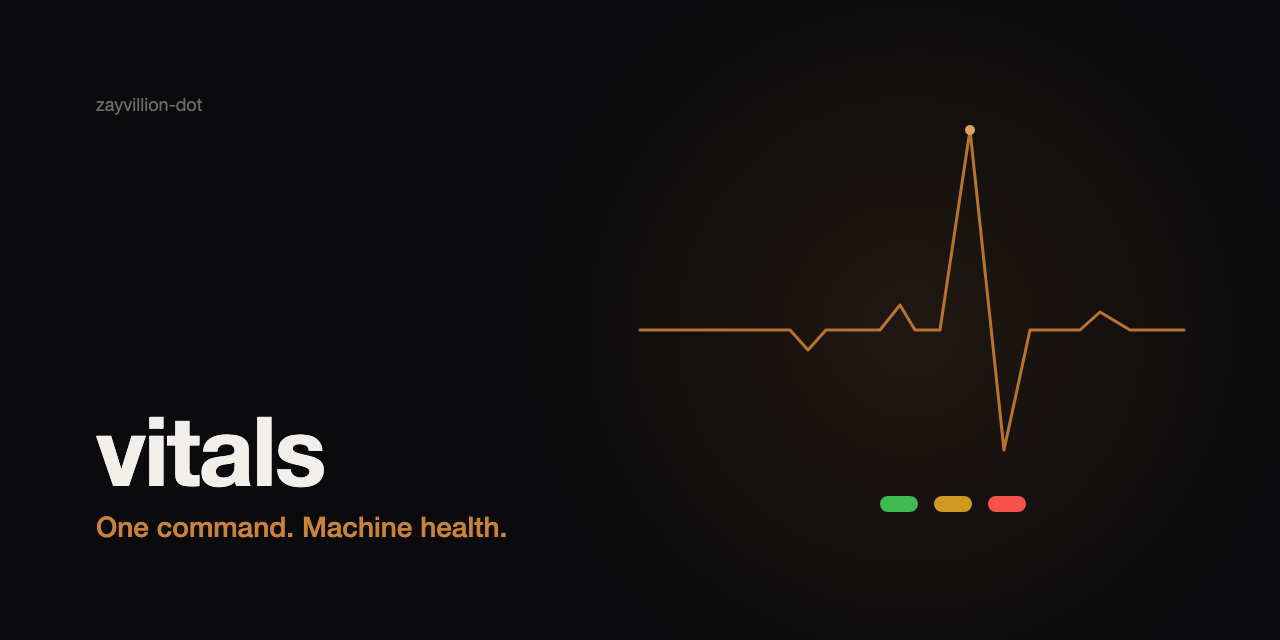
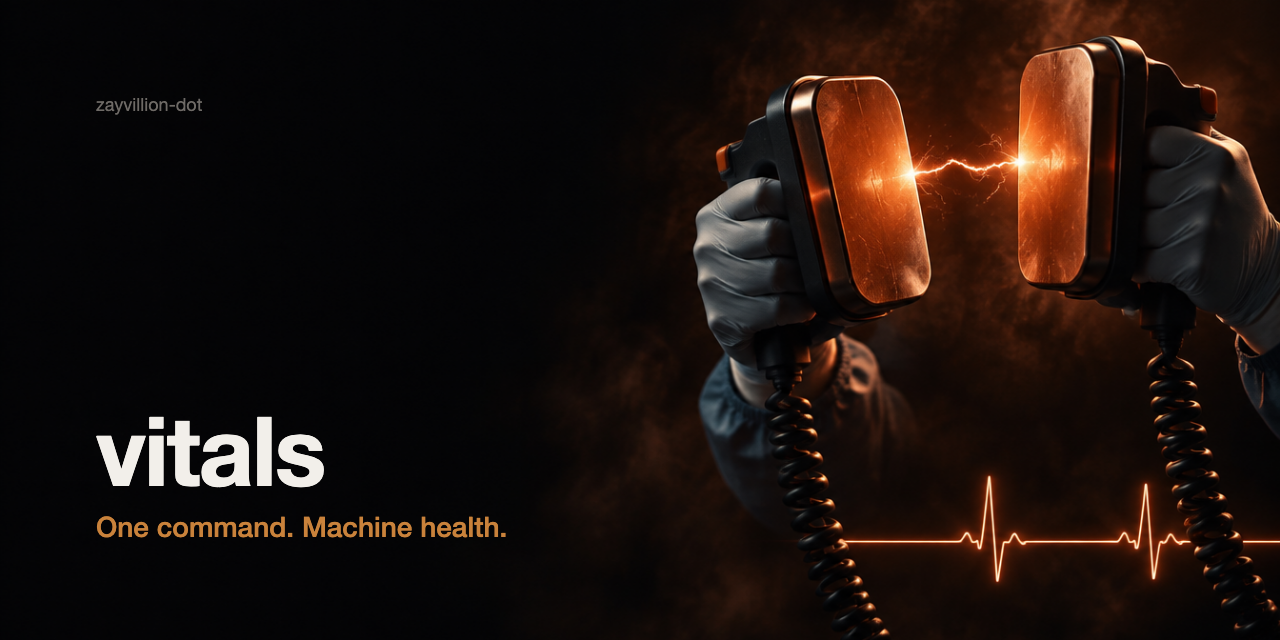
assets: photoreal social preview (sage tribunal / strongman / defibrillator)

diff --git a/assets/social-preview.html b/assets/social-preview.html
@@ -1,15 +1,11 @@
 <!DOCTYPE html><html><head><meta charset="utf-8"><style>
 html,body{margin:0;padding:0;background:#0B0B0D}
 body{position:relative;font-family:-apple-system,"SF Pro Display","Helvetica Neue",Helvetica,sans-serif}
-.glow{position:absolute;left:490px;top:-90px;width:840px;height:840px;background:radial-gradient(circle,rgba(184,115,51,0.12) 0%,rgba(184,115,51,0) 65%)}
 .org{position:absolute;left:96px;top:96px;font-size:18px;line-height:18px;color:#6E6A66}
 .blk{position:absolute;left:96px;bottom:96px}
 .w{font-size:96px;line-height:100px;font-weight:700;letter-spacing:-0.02em;color:#F2EFEA}
 .t{font-size:28px;line-height:34px;font-weight:500;color:#C9823B;margin-top:10px}
-svg{position:absolute;left:0;top:0}
-</style></head><body style="margin:0;width:1280px;height:640px;overflow:hidden;background:#0B0B0D">
-<div class="glow"></div>
-<svg width="1280" height="640" viewBox="0 0 1280 640" fill="none"><path d="M640 330 L760 330 L790 330 L808 350 L826 330 L880 330 L900 305 L915 330 L940 330 L970 130 L1004 450 L1030 330 L1080 330 L1100 312 L1130 330 L1184 330" stroke="#B87333" stroke-width="3" stroke-linejoin="round" stroke-linecap="round"/><circle cx="970" cy="130" r="5" fill="#E0A060"/><rect x="880" y="496" width="38" height="16" rx="8" fill="#3FB950"/><rect x="934" y="496" width="38" height="16" rx="8" fill="#D29922"/><rect x="988" y="496" width="38" height="16" rx="8" fill="#F85149"/></svg>
+</style></head><body style="margin:0;width:1280px;height:640px;overflow:hidden;background:#0B0B0D url('social-preview-bg.png') center/cover no-repeat">
 <div class="org">zayvillion-dot</div>
 <div class="blk"><div class="w">vitals</div><div class="t">One command. Machine health.</div></div>
 </body></html>

diff --git a/assets/social-preview-typographic.html b/assets/social-preview-typographic.html
@@ -1,0 +1,15 @@
+<!DOCTYPE html><html><head><meta charset="utf-8"><style>
+html,body{margin:0;padding:0;background:#0B0B0D}
+body{position:relative;font-family:-apple-system,"SF Pro Display","Helvetica Neue",Helvetica,sans-serif}
+.glow{position:absolute;left:490px;top:-90px;width:840px;height:840px;background:radial-gradient(circle,rgba(184,115,51,0.12) 0%,rgba(184,115,51,0) 65%)}
+.org{position:absolute;left:96px;top:96px;font-size:18px;line-height:18px;color:#6E6A66}
+.blk{position:absolute;left:96px;bottom:96px}
+.w{font-size:96px;line-height:100px;font-weight:700;letter-spacing:-0.02em;color:#F2EFEA}
+.t{font-size:28px;line-height:34px;font-weight:500;color:#C9823B;margin-top:10px}
+svg{position:absolute;left:0;top:0}
+</style></head><body style="margin:0;width:1280px;height:640px;overflow:hidden;background:#0B0B0D">
+<div class="glow"></div>
+<svg width="1280" height="640" viewBox="0 0 1280 640" fill="none"><path d="M640 330 L760 330 L790 330 L808 350 L826 330 L880 330 L900 305 L915 330 L940 330 L970 130 L1004 450 L1030 330 L1080 330 L1100 312 L1130 330 L1184 330" stroke="#B87333" stroke-width="3" stroke-linejoin="round" stroke-linecap="round"/><circle cx="970" cy="130" r="5" fill="#E0A060"/><rect x="880" y="496" width="38" height="16" rx="8" fill="#3FB950"/><rect x="934" y="496" width="38" height="16" rx="8" fill="#D29922"/><rect x="988" y="496" width="38" height="16" rx="8" fill="#F85149"/></svg>
+<div class="org">zayvillion-dot</div>
+<div class="blk"><div class="w">vitals</div><div class="t">One command. Machine health.</div></div>
+</body></html>
